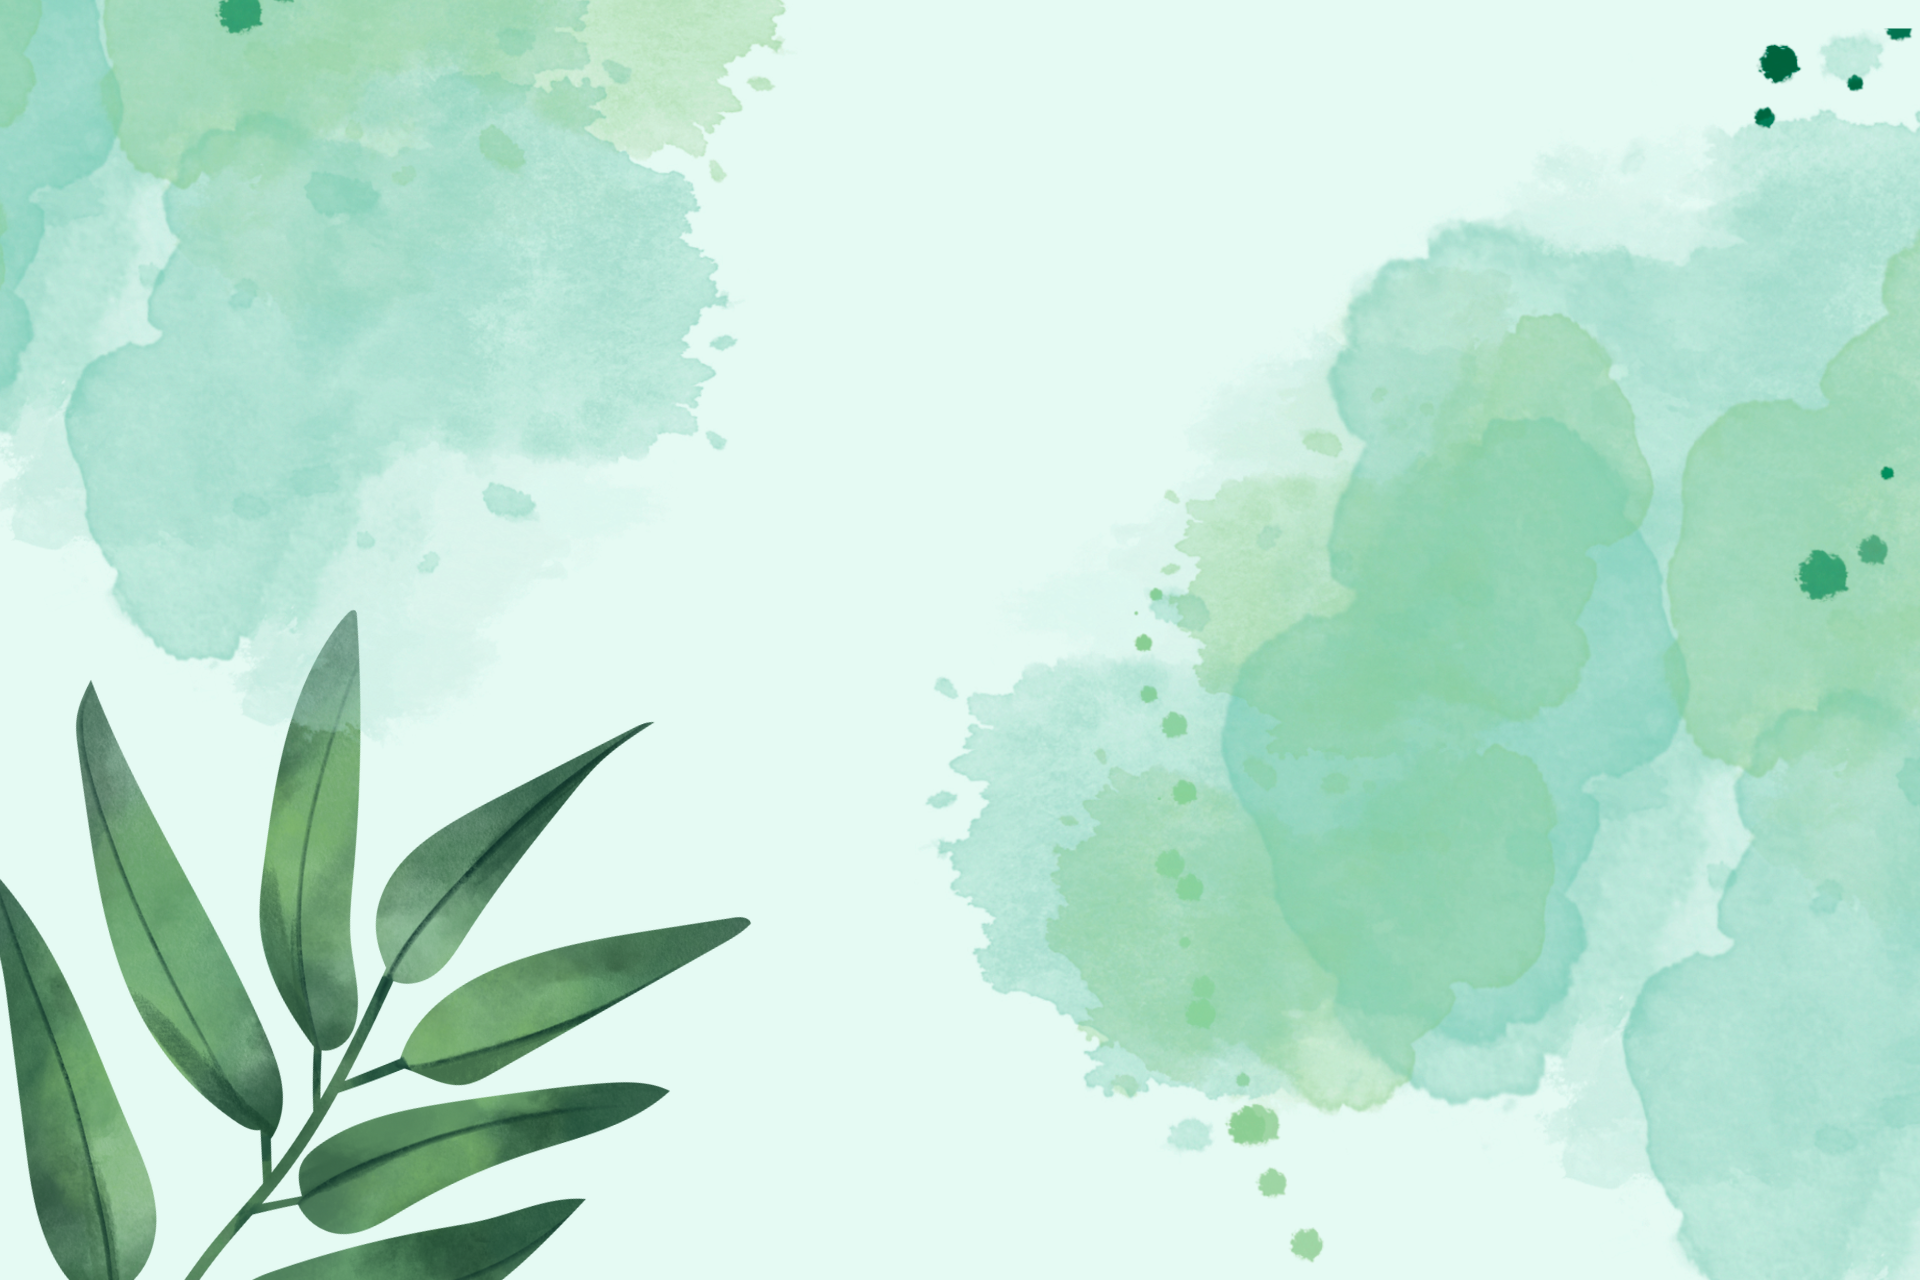
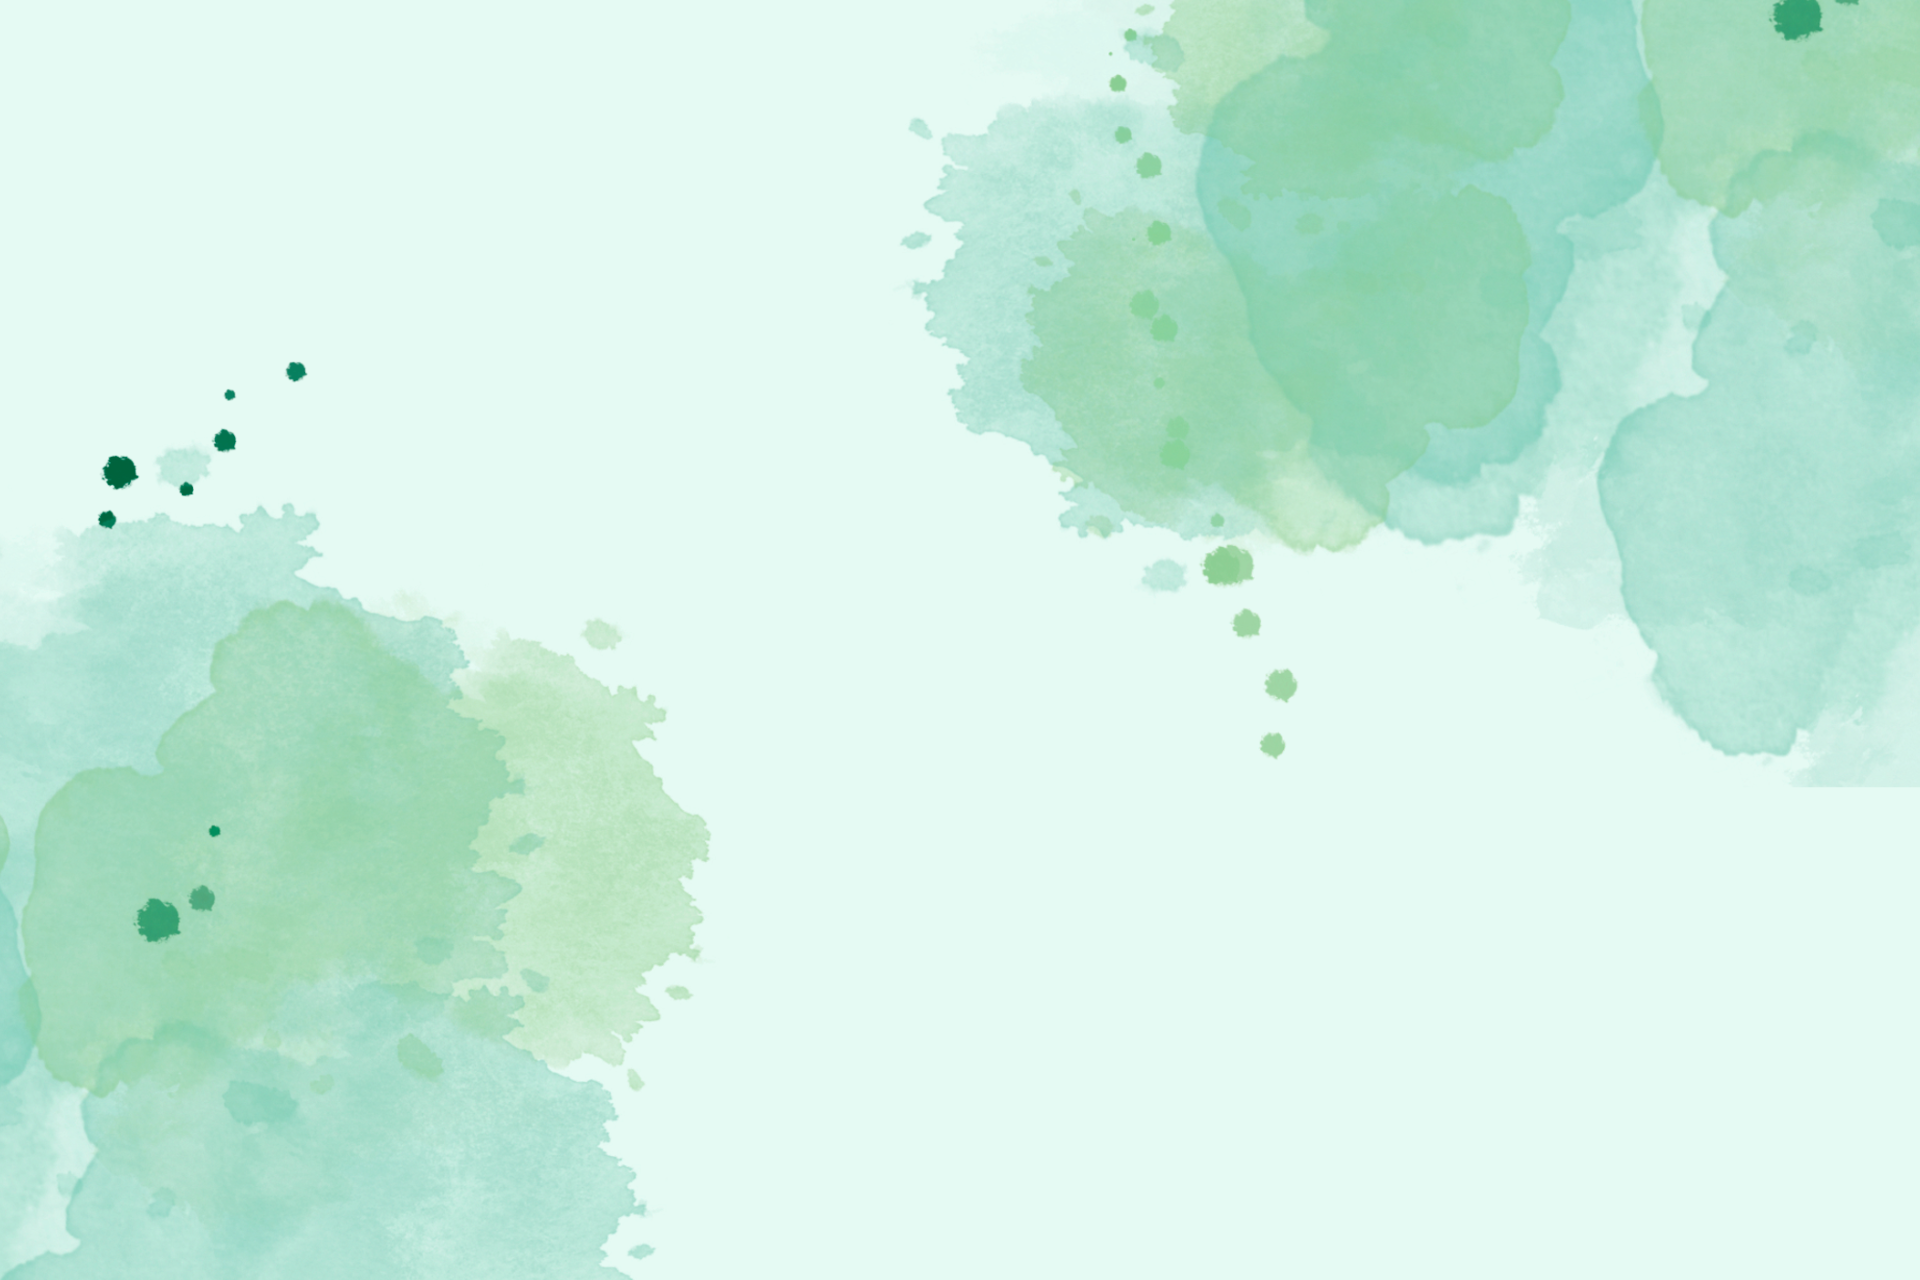
Update the background image like remove the leaf image and remove the some spaces

diff --git a/src/Components/Skills.jsx b/src/Components/Skills.jsx
@@ -1,6 +1,5 @@
 import Lottie from "lottie-react";
 import SkillsAnimation from "./../assets/Skills.json";
-
 import { FaHtml5, FaCss3Alt, FaBootstrap, FaReact } from "react-icons/fa";
 import { RiTailwindCssFill } from "react-icons/ri";
 

diff --git a/src/Components/Hero.jsx b/src/Components/Hero.jsx
@@ -1,5 +1,4 @@
 import HeroImage from "./../assets/profile.png";
-// import background from "./../assets/1.png";
 import { FaGithubSquare } from "react-icons/fa";
 import { IoLogoLinkedin } from "react-icons/io5";
 
